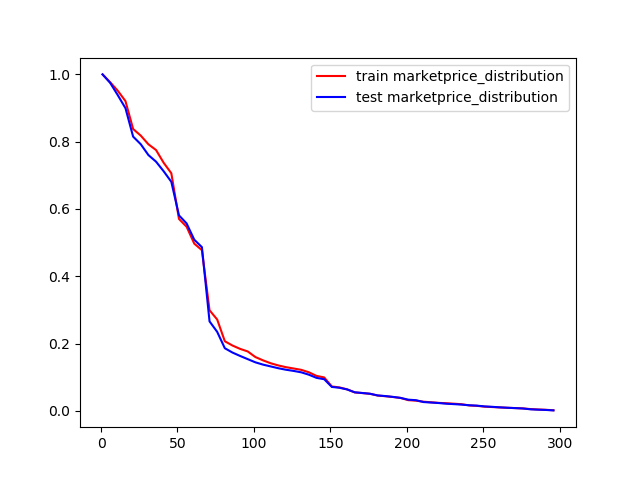
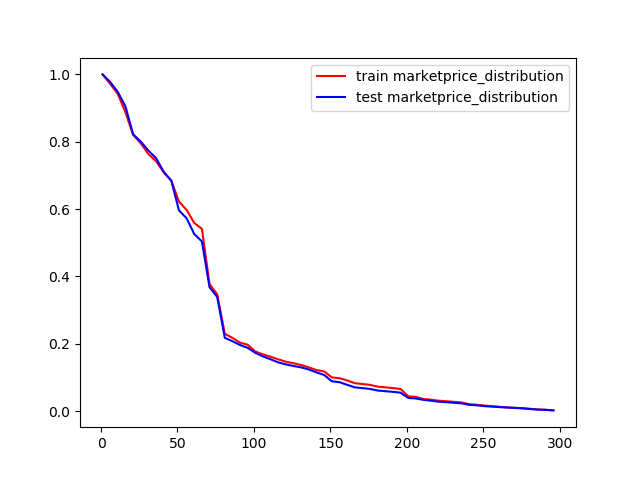
训练为0610,测试为0611

diff --git a/src/data_display/data_statistic.py b/src/data_display/data_statistic.py
@@ -12,12 +12,13 @@ train_ctr.iloc[:, 1] = train_ctr.iloc[:, 1].astype(float)
 train_ctr =  train_ctr.reset_index(drop=True)
 train_ctr = train_ctr.iloc[:, 1].values
 
+print(len(train_data), np.sum(train_data.iloc[:, config['data_clk_index']]), np.sum(train_data.iloc[:, config['data_marketprice_index']]))
 hour_index = train_data.iloc[:, config['data_hour_index']]
-print('训练集ctr大于平均ctr的数量', np.sum(train_ctr > train_avg_ctr[hour_index]))
+print('训练集ctr大于平均ctr的数量', np.sum(train_ctr > 0.2 * train_avg_ctr[hour_index]))
 print('训练集ctr大于平均ctr的曝光花费', np.sum(train_data[train_ctr > train_avg_ctr[hour_index]].iloc[:, config['data_marketprice_index']]))
 with_clk_index = train_data.iloc[:, config['data_clk_index']].isin([1])
 with_clk_hour_index = train_data[with_clk_index].iloc[:, config['data_hour_index']]
-print('训练集ctr大于点击/曝光ctr的数量', np.sum(train_ctr[with_clk_index.values] > train_avg_ctr[with_clk_hour_index]))
+print('训练集ctr大于点击/曝光ctr的数量', np.sum(train_ctr[with_clk_index.values] > 0.2 * train_avg_ctr[with_clk_hour_index]))
 train_ctr_mprice_data = {'ctr': train_ctr[with_clk_index.values],
                         'marketprice': train_data[with_clk_index].iloc[:, config['data_marketprice_index']].values,
                         'hour_index': train_data[with_clk_index].iloc[:, config['data_hour_index']].values}
@@ -41,7 +42,7 @@ for i in range(0, 24):
 hour_data_statics = {'clk_nums': clk_nums, 'ctr_avgs': ctr_avgs, 'bid_avgs': bid_avgs, 'hour_arrays': hour_arrays}
 hour_data_statics_df = pd.DataFrame(data=hour_data_statics)
 hour_data_statics_df.to_csv('../../data/data_statics/train_hour_data_statics.csv', index=None)
-print('训练集平均有点击出价均值', np.sum(train_data[train_data.iloc[:, config['data_clk_index']].isin([1])].iloc[:, config['data_marketprice_index']])/328) # 平均有点击出价均值为90.51219512195122
+print('训练集平均有点击出价均值', np.sum(train_data[train_data.iloc[:, config['data_clk_index']].isin([1])].iloc[:, config['data_marketprice_index']])/347) # 平均有点击出价均值为90.51219512195122
 
 test_data = pd.read_csv("../../data/fm/test_fm.csv", header=None)
 test_data.iloc[:, config['data_hour_index']] = test_data.iloc[:, config['data_hour_index']].astype(int)
@@ -51,9 +52,10 @@ test_ctr.iloc[:, 1] = test_ctr.iloc[:, 1].astype(float)
 test_ctr =  test_ctr.reset_index(drop=True)
 test_ctr = test_ctr.iloc[:, 1].values
 
+print(len(test_data), np.sum(test_data.iloc[:, config['data_clk_index']]), np.sum(test_data.iloc[:, config['data_marketprice_index']]))
 hour_index = test_data.iloc[:, config['data_hour_index']]
 print('测试集ctr大于平均ctr的曝光花费', np.sum(test_data[test_ctr > test_avg_ctr[hour_index]].iloc[:, config['data_marketprice_index']]))
-print('测试集ctr大于平均ctr的数量', np.sum(test_ctr > test_avg_ctr[hour_index]))
+print('测试集ctr大于平均ctr的数量', np.sum(test_ctr > 0.2 * test_avg_ctr[hour_index]))
 
 with_clk_index = test_data.iloc[:, config['data_clk_index']].isin([1])
 test_ctr_mprice_data = {'ctr': test_ctr[with_clk_index.values],
@@ -80,10 +82,10 @@ test_hour_data_statics = {'clk_nums': clk_nums, 'ctr_avgs': ctr_avgs, 'bid_avgs'
 test_hour_data_statics_df = pd.DataFrame(data=test_hour_data_statics)
 hour_index = test_data[with_clk_index].iloc[:, config['data_hour_index']]
 print('测试集具有点击的数据大于各时段平均ctr（为各数据ctr的平均值）的数量', np.sum(test_ctr[with_clk_index.values] > test_hour_data_statics_df.iloc[hour_index, 1]))
-print('测试集具有点击的数据大于0.0001的数量', np.sum(test_ctr[with_clk_index.values] > 0.0001))
-print('测试集具有点击的数据大于时段点击/曝光ctr的数量', np.sum(test_ctr[with_clk_index.values] > test_avg_ctr[hour_index]))
+print('测试集具有点击的数据大于0.0001的数量', np.sum(test_ctr[with_clk_index.values] > 0.0005))
+print('测试集具有点击的数据大于时段点击/曝光ctr的数量', np.sum(test_ctr[with_clk_index.values] > 0.2 *test_avg_ctr[hour_index]))
 test_hour_data_statics_df.to_csv('../../data/data_statics/test_hour_data_statics.csv', index=None)
-print('测试集平均有点击出价均值', np.sum(test_data[test_data.iloc[:, config['data_clk_index']].isin([1])].iloc[:, config['data_marketprice_index']])/356) # 均有点击出价均值为92.11797752808988
+print('测试集平均有点击出价均值', np.sum(test_data[test_data.iloc[:, config['data_clk_index']].isin([1])].iloc[:, config['data_marketprice_index']])/351) # 均有点击出价均值为92.11797752808988
 
 x_axis = np.arange(0,24)
 train_y_aixs_1 = hour_data_statics_df.iloc[:, 1].values

diff --git a/src/feature_engineering/down_sample.py b/src/feature_engineering/down_sample.py
@@ -9,10 +9,10 @@ random.seed(999)
 原始数据统计
 0606 448164 328 30096630
 0607 478109 307 30228554
-0608 413804 347 30615541 √ 训练
-0609 423726 351 30548604 √ 测试
-0610 434240 370 30303929 
-0611 437520 395 30309883
+0608 413804 347 30615541
+0609 423726 351 30548604
+0610 434240 370 30303929 √ 训练
+0611 437520 395 30309883 √ 测试
 0612 447493 356 30297100
 '''
 # 负采样后达到的点击率
@@ -20,8 +20,8 @@ CLICK_RATE = 0.001  # 1:1000
 
 # '+config['train_date']+'一天
 def getSampleRate():
-    click = 347  #'+config['train_date']+' 1天
-    total = 413804  # '+config['train_date']+' 1天
+    click = 370  #'+config['train_date']+' 1天
+    total = 434240  # '+config['train_date']+' 1天
     rate = click / (CLICK_RATE * (total - click))
     # 原始数据中的点击和曝光总数
     print('clicks: {0} impressions: {1}\n'.format(click, total))
@@ -47,7 +47,7 @@ with open( '../../sample/'+config['train_date']+'_train_sample.csv', 'w') as fo:
             label = line.split(',')[0] # 是否点击标签
             if int(label) == 0:
                 n += 1
-                if random.randint(0, 413804) <= 413804 * sample_rate:  # down sample, 选择对应数据量的负样本
+                if random.randint(0, 434240) <= 434240 * sample_rate:  # down sample, 选择对应数据量的负样本
                     fo.write(line)
                     nn += 1
             else:
@@ -62,8 +62,8 @@ print('训练数据负采样完成')
 
 # '+config['test_date']+'一天
 def getTestSampleRate():
-    click = 351  # '+config['test_date']+'一天
-    total = 423726  # '+config['test_date']+'一天
+    click = 395  # '+config['test_date']+'一天
+    total = 437520  # '+config['test_date']+'一天
     rate = click / (CLICK_RATE * (total - click))
     # 原始数据中的点击和曝光总数
     print('clicks: {0} impressions: {1}\n'.format(click, total))
@@ -90,7 +90,7 @@ with open( '../../sample/'+config['test_date']+'_test_sample.csv', 'w') as fo:
             label = line.split(',')[0] # 是否点击标签
             if int(label) == 0:
                 n += 1
-                if random.randint(0, 423726) <= 423726 * test_sample_rate:  # down sample, 选择对应数据量的负样本
+                if random.randint(0, 437520) <= 437520 * test_sample_rate:  # down sample, 选择对应数据量的负样本
                     fo.write(line)
                     nn += 1
             else:

diff --git a/src/feature_engineering/data_to_csv.py b/src/feature_engineering/data_to_csv.py
@@ -47,14 +47,14 @@ test_header = ['click', 'weekday', 'hour', 'bidid', 'timestamp', 'logtype', 'ipi
 '''
 # 选择一天的数据作为训练集和测试集
 train_data = pd.read_csv('../../data/train.csv')
-one_day_data = train_data[train_data.iloc[:, 1].isin([0,1,2,4,5,6])] # 选择特定值所在的行
-one_day_data.to_csv('../../data/20130606_0611_train_data.csv', index=None)
+one_day_data = train_data[train_data.iloc[:, 1].isin([1])] # 选择特定值所在的行
+one_day_data.to_csv('../../data/20130610_train_data.csv', index=None)
 print(len(one_day_data), one_day_data.iloc[:, 0].sum(), one_day_data.iloc[:, 23].sum())
 
 # 从训练集中选一天作为测试集
 test_data = pd.read_csv('../../data/train.csv')
-one_day_test_data = test_data[test_data.iloc[:, 1].isin([3])] # 选择特定值所在的行
-one_day_test_data.to_csv('../../data/20130612_test_data.csv', index=None)
+one_day_test_data = test_data[test_data.iloc[:, 1].isin([2])] # 选择特定值所在的行
+one_day_test_data.to_csv('../../data/20130611_test_data.csv', index=None)
 print(len(one_day_test_data), one_day_test_data.iloc[:, 0].sum(), one_day_test_data.iloc[:, 23].sum())
 
 # test_data = pd.read_csv('../../data/test.csv')
